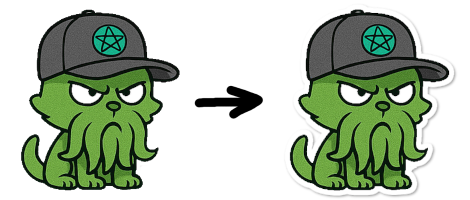
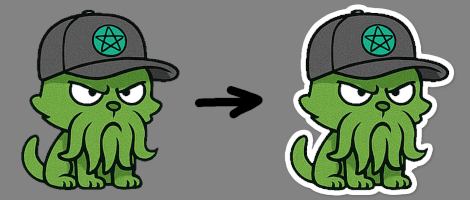
Small changes in example.png and the script

diff --git a/Stickerfy.py b/Stickerfy.py
@@ -41,8 +41,7 @@ def stickerfy(image_path, output_path="sticker.png", border_color=(255, 255, 255
     blur_radius = border_size * scale * 0.6
     mask_up = mask_up.filter(ImageFilter.GaussianBlur(blur_radius))
 
-    # Convert to binary again: anything not fully transparent gets max alpha.
-    # This gives sharp border edges after downscaling.
+    # Convert to binary again: anything not fully transparent gets max alpha. Creates sharp border edges after downscaling.
     thresholded = mask_up.point(lambda p: 255 if p > 0 else 0, mode='L')
 
     # Downscale back to sticker size with sharp edges.
@@ -50,11 +49,11 @@ def stickerfy(image_path, output_path="sticker.png", border_color=(255, 255, 255
 
     # Create a solid border layer with the correct size.
     border = Image.new("RGBA", (sticker_size, sticker_size), border_color + (255,))
-    border.putalpha(expanded_mask)  # Apply the expanded mask.
+    border.putalpha(expanded_mask)
 
     # Add drop shadow.
     shadow = Image.new("RGBA", (sticker_size, sticker_size), (0, 0, 0, 0))
-    shadow_mask = expanded_mask.filter(ImageFilter.GaussianBlur(3))  # Blur mask for shadow.
+    shadow_mask = expanded_mask.filter(ImageFilter.GaussianBlur(3))
     shadow.paste((0, 0, 0, 100), (shadow_offset, shadow_offset), shadow_mask)
 
     # Merge all layers into the final sticker.
@@ -65,7 +64,6 @@ def stickerfy(image_path, output_path="sticker.png", border_color=(255, 255, 255
     final_sticker.save(output_path, "PNG")
     print(f"✅ Sticker saved as {output_path}")
 
-# Run the script when used as a CLI tool.
 if __name__ == "__main__":
     if len(sys.argv) < 2:
         print("❌ Provide an image!\ne.g.: python stickerfy.py image.png")
